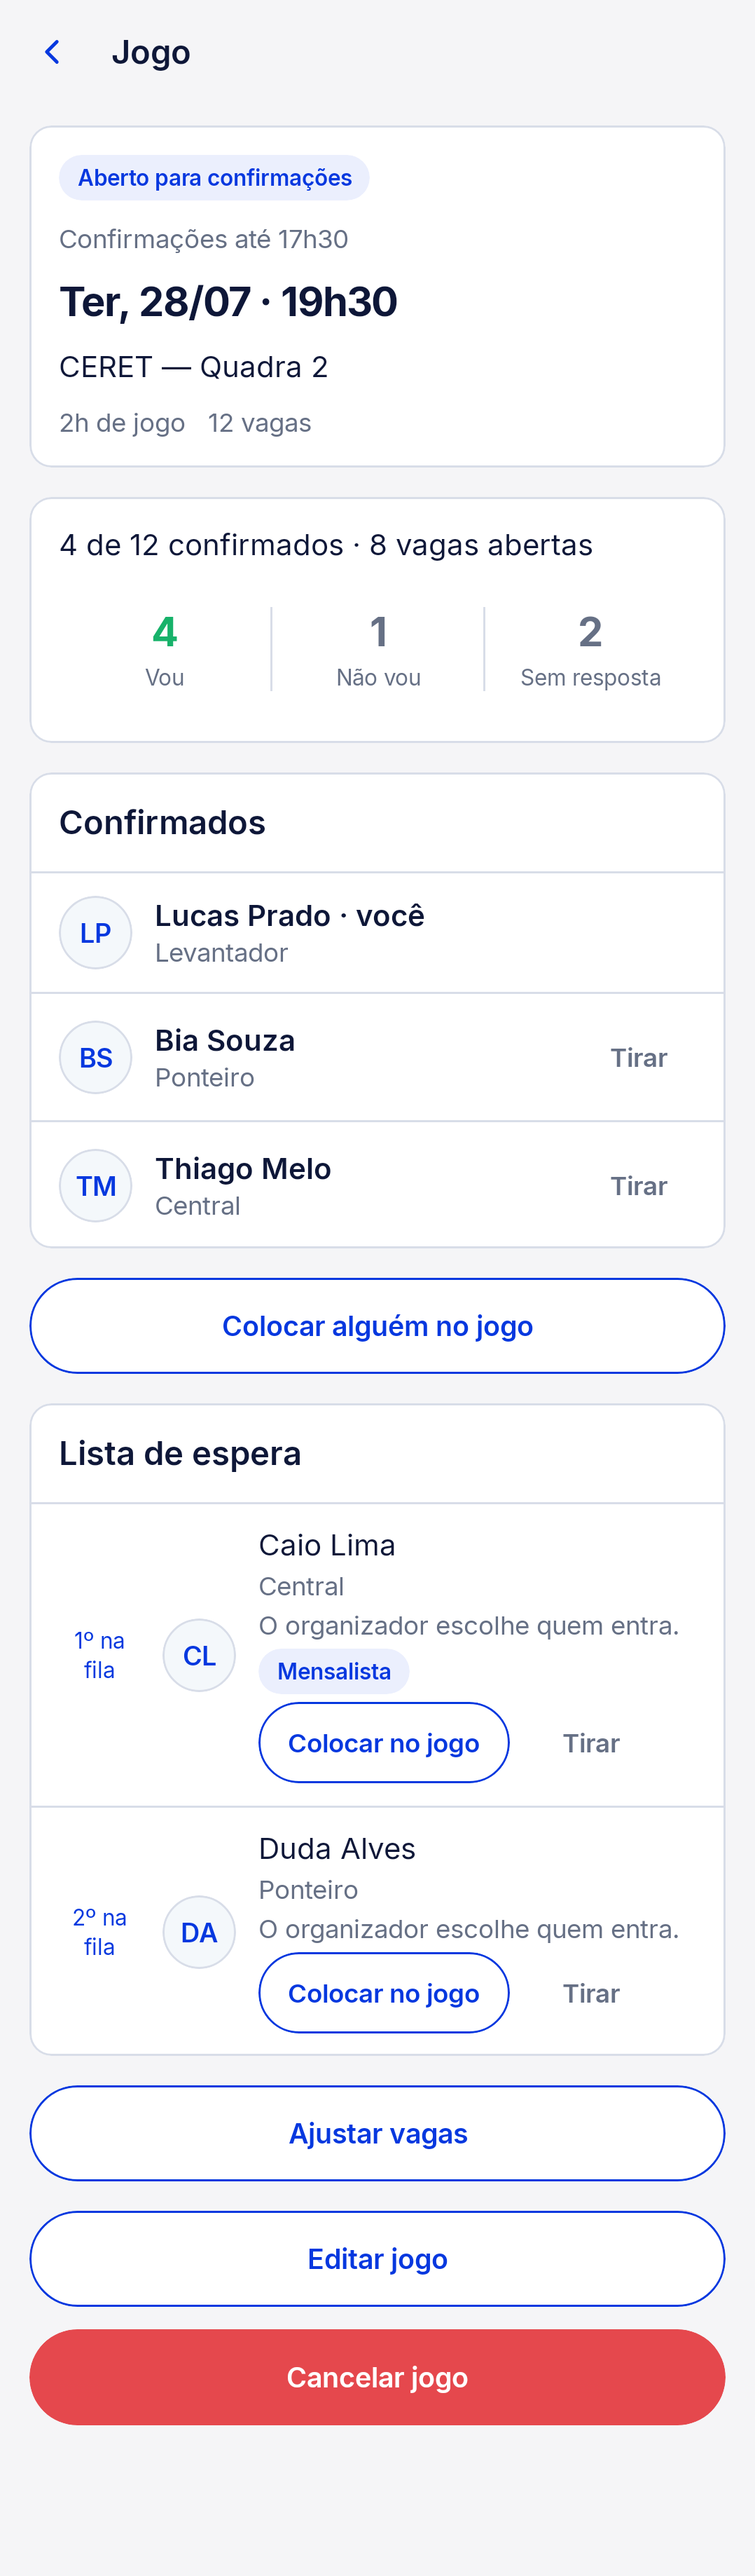
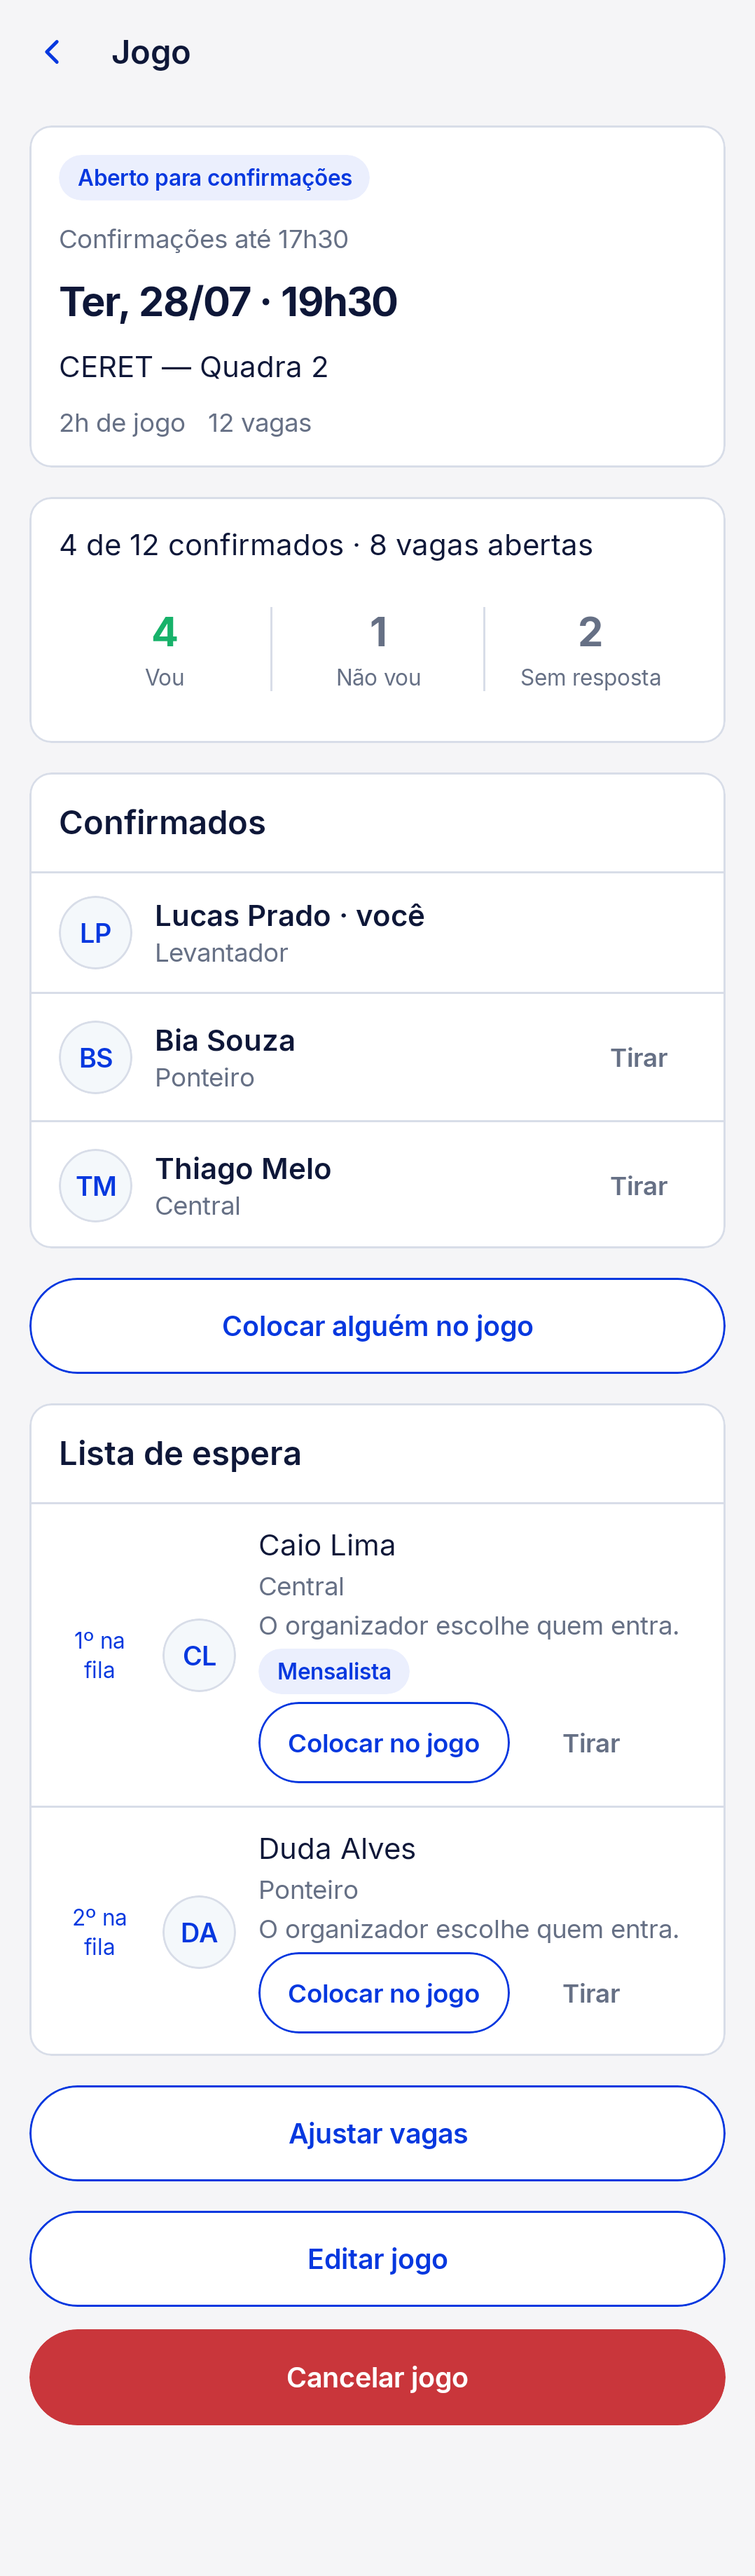
test(app): capturas do link de presença (pendente, confirmado, espera, folha, não vou, falha)

Changed region(s): [[0.0306, 0.8996, 0.9796, 0.9616]]

diff --git a/mobile/features/groups/presentation/src/androidHostTest/kotlin/br/com/saqz/groups/presentation/ConnectedFlowsScreenshotTest.kt b/mobile/features/groups/presentation/src/androidHostTest/kotlin/br/com/saqz/groups/presentation/ConnectedFlowsScreenshotTest.kt
@@ -9,6 +9,12 @@ import androidx.compose.ui.Modifier
 import androidx.compose.ui.test.junit4.v2.createComposeRule
 import androidx.compose.ui.test.onRoot
 import br.com.saqz.designsystem.theme.SaqzTheme
+import br.com.saqz.domain.GroupId
+import br.com.saqz.groups.domain.attendance.share.AttendanceLinkDestination
+import br.com.saqz.groups.presentation.attendancelink.AttendanceLinkGame
+import br.com.saqz.groups.presentation.attendancelink.AttendanceLinkPhase
+import br.com.saqz.groups.presentation.attendancelink.AttendanceLinkScreen
+import br.com.saqz.groups.presentation.attendancelink.AttendanceLinkState
 import br.com.saqz.groups.domain.communication.CommunicationChannel
 import br.com.saqz.groups.domain.communication.NotificationPreferences
 import br.com.saqz.groups.presentation.communication.GroupThreadScreen
@@ -156,34 +162,65 @@ class NotificationChannelSettingsScreenshotTest : ConnectedFlowsScreenshotScene(
 @RunWith(RobolectricTestRunner::class)
 @GraphicsMode(GraphicsMode.Mode.NATIVE)
 @Config(sdk = [35], qualifiers = RobolectricDeviceQualifiers.Pixel7, application = Application::class)
-class AttendanceLinkScreenshotTest : ConnectedFlowsScreenshotScene() {
-    @Test fun loading() = scene(br.com.saqz.groups.presentation.attendancelink.AttendanceLinkPhase.Loading)
-    @Test fun confirmed() = scene(br.com.saqz.groups.presentation.attendancelink.AttendanceLinkPhase.Confirmed)
-    @Test fun waitlisted() = scene(br.com.saqz.groups.presentation.attendancelink.AttendanceLinkPhase.Waitlisted)
-    /** O aviso do link: "Confirmamos sua presença em …" com o Desfazer (DEB-104). */
-    @Test fun confirmedWithGameAndUndo() = capture("attendance-link-confirmed-undo") {
-        br.com.saqz.groups.presentation.attendancelink.AttendanceLinkScreen(
-            br.com.saqz.groups.presentation.attendancelink.AttendanceLinkState(
-                br.com.saqz.groups.presentation.attendancelink.AttendanceLinkPhase.Confirmed,
-                br.com.saqz.groups.domain.attendance.share.AttendanceLinkDestination(br.com.saqz.domain.GroupId("group"), "game"),
-                br.com.saqz.groups.presentation.attendancelink.AttendanceLinkGame("TUESDAY", "04/08", "19h30", "CERET", "Quadra 2"),
-            ), {}, {}, {},
-        )
+class AttendanceLinkPendingScreenshotTest : ConnectedFlowsScreenshotScene() {
+    private val nextGame = AttendanceLinkGame("THURSDAY", "22/10", "21h00", "Local após a aprovação", null, groupNext = true)
+
+    @Test fun pending() = scene(
+        AttendanceLinkState(
+            AttendanceLinkPhase.Pending, game = nextGame, pendingGroupId = "group",
+            pendingGroupName = "Vôlei da Quinta", pendingInviterName = "Ana Lima",
+        ),
+        "pending",
+    )
+    @Test fun pendingRegistrationSaved() = scene(
+        AttendanceLinkState(
+            AttendanceLinkPhase.Pending, game = nextGame, pendingGroupId = "group", pendingGroupName = "Vôlei da Quinta",
+            pendingInviterName = "Ana Lima", pendingRegistrationSaved = true,
+        ),
+        "pending-registration-saved",
+    )
+    @Test fun pendingWithoutNames() = scene(
+        AttendanceLinkState(AttendanceLinkPhase.Pending, game = nextGame, pendingGroupId = "group"),
+        "pending-no-names",
+    )
+    @Test fun pendingWithoutGame() = scene(AttendanceLinkState(AttendanceLinkPhase.Pending, pendingGroupId = "group"), "pending-no-game")
+    @Test fun pendingRefreshing() = scene(
+        AttendanceLinkState(
+            AttendanceLinkPhase.Pending, game = nextGame, pendingGroupId = "group", pendingGroupName = "Vôlei da Quinta",
+            pendingInviterName = "Ana Lima", refreshing = true,
+        ),
+        "pending-refreshing",
+    )
+    private fun scene(state: AttendanceLinkState, name: String) = capture("attendance-link-$name") {
+        AttendanceLinkScreen(state, {}, {}, {})
     }
-    @Test fun invalid() = scene(br.com.saqz.groups.presentation.attendancelink.AttendanceLinkPhase.Invalid)
-    @Test fun pending() = scene(br.com.saqz.groups.presentation.attendancelink.AttendanceLinkPhase.Pending)
-    @Test fun registration() = scene(br.com.saqz.groups.presentation.attendancelink.AttendanceLinkPhase.Registration)
-    @Test fun failed() = scene(br.com.saqz.groups.presentation.attendancelink.AttendanceLinkPhase.Failed)
-    private fun scene(phase: br.com.saqz.groups.presentation.attendancelink.AttendanceLinkPhase) {
-        val destination = if (phase in listOf(
-            br.com.saqz.groups.presentation.attendancelink.AttendanceLinkPhase.Confirmed,
-            br.com.saqz.groups.presentation.attendancelink.AttendanceLinkPhase.Waitlisted,
-        )) br.com.saqz.groups.domain.attendance.share.AttendanceLinkDestination(br.com.saqz.domain.GroupId("group"), "game")
-        else null
-        capture("attendance-link-${phase.name.lowercase()}") {
-            br.com.saqz.groups.presentation.attendancelink.AttendanceLinkScreen(
-                br.com.saqz.groups.presentation.attendancelink.AttendanceLinkState(phase, destination), {}, {}, {},
-            )
-        }
+}
+
+@RunWith(RobolectricTestRunner::class)
+@GraphicsMode(GraphicsMode.Mode.NATIVE)
+@Config(sdk = [35], qualifiers = RobolectricDeviceQualifiers.Pixel7, application = Application::class)
+class AttendanceLinkScreenshotTest : ConnectedFlowsScreenshotScene() {
+    private val destination = AttendanceLinkDestination(GroupId("group"), "game")
+    private val game = AttendanceLinkGame("THURSDAY", "22/10", "21h00", "Arena Beira-Mar", "Quadra 2", capacity = 14, confirmedCount = 12)
+    @Test fun loading() = scene(AttendanceLinkState(AttendanceLinkPhase.Loading), "loading")
+    @Test fun confirmed() = scene(AttendanceLinkState(AttendanceLinkPhase.Confirmed, destination, game), "confirmed")
+    @Test fun confirmedWithoutCounts() = scene(
+        AttendanceLinkState(AttendanceLinkPhase.Confirmed, destination, game.copy(capacity = null, confirmedCount = null)),
+        "confirmed-no-counts",
+    )
+    @Test fun waitlistedFirst() = scene(
+        AttendanceLinkState(AttendanceLinkPhase.Waitlisted, destination, game, waitlistPosition = 1), "waitlisted-1",
+    )
+    @Test fun waitlistedThird() = scene(
+        AttendanceLinkState(AttendanceLinkPhase.Waitlisted, destination, game, waitlistPosition = 3), "waitlisted-3",
+    )
+    @Test fun declineSheet() = scene(AttendanceLinkState(AttendanceLinkPhase.DeclineSheet, destination, game), "decline-sheet")
+    @Test fun declined() = scene(AttendanceLinkState(AttendanceLinkPhase.Declined, destination, game), "declined")
+    @Test fun invalid() = scene(AttendanceLinkState(AttendanceLinkPhase.Invalid), "invalid")
+    @Test fun registration() = scene(AttendanceLinkState(AttendanceLinkPhase.Registration), "registration")
+    @Test fun failed() = scene(AttendanceLinkState(AttendanceLinkPhase.Failed), "failed")
+
+    private fun scene(state: AttendanceLinkState, name: String) = capture("attendance-link-$name") {
+        AttendanceLinkScreen(state, {}, {}, {})
     }
 }
